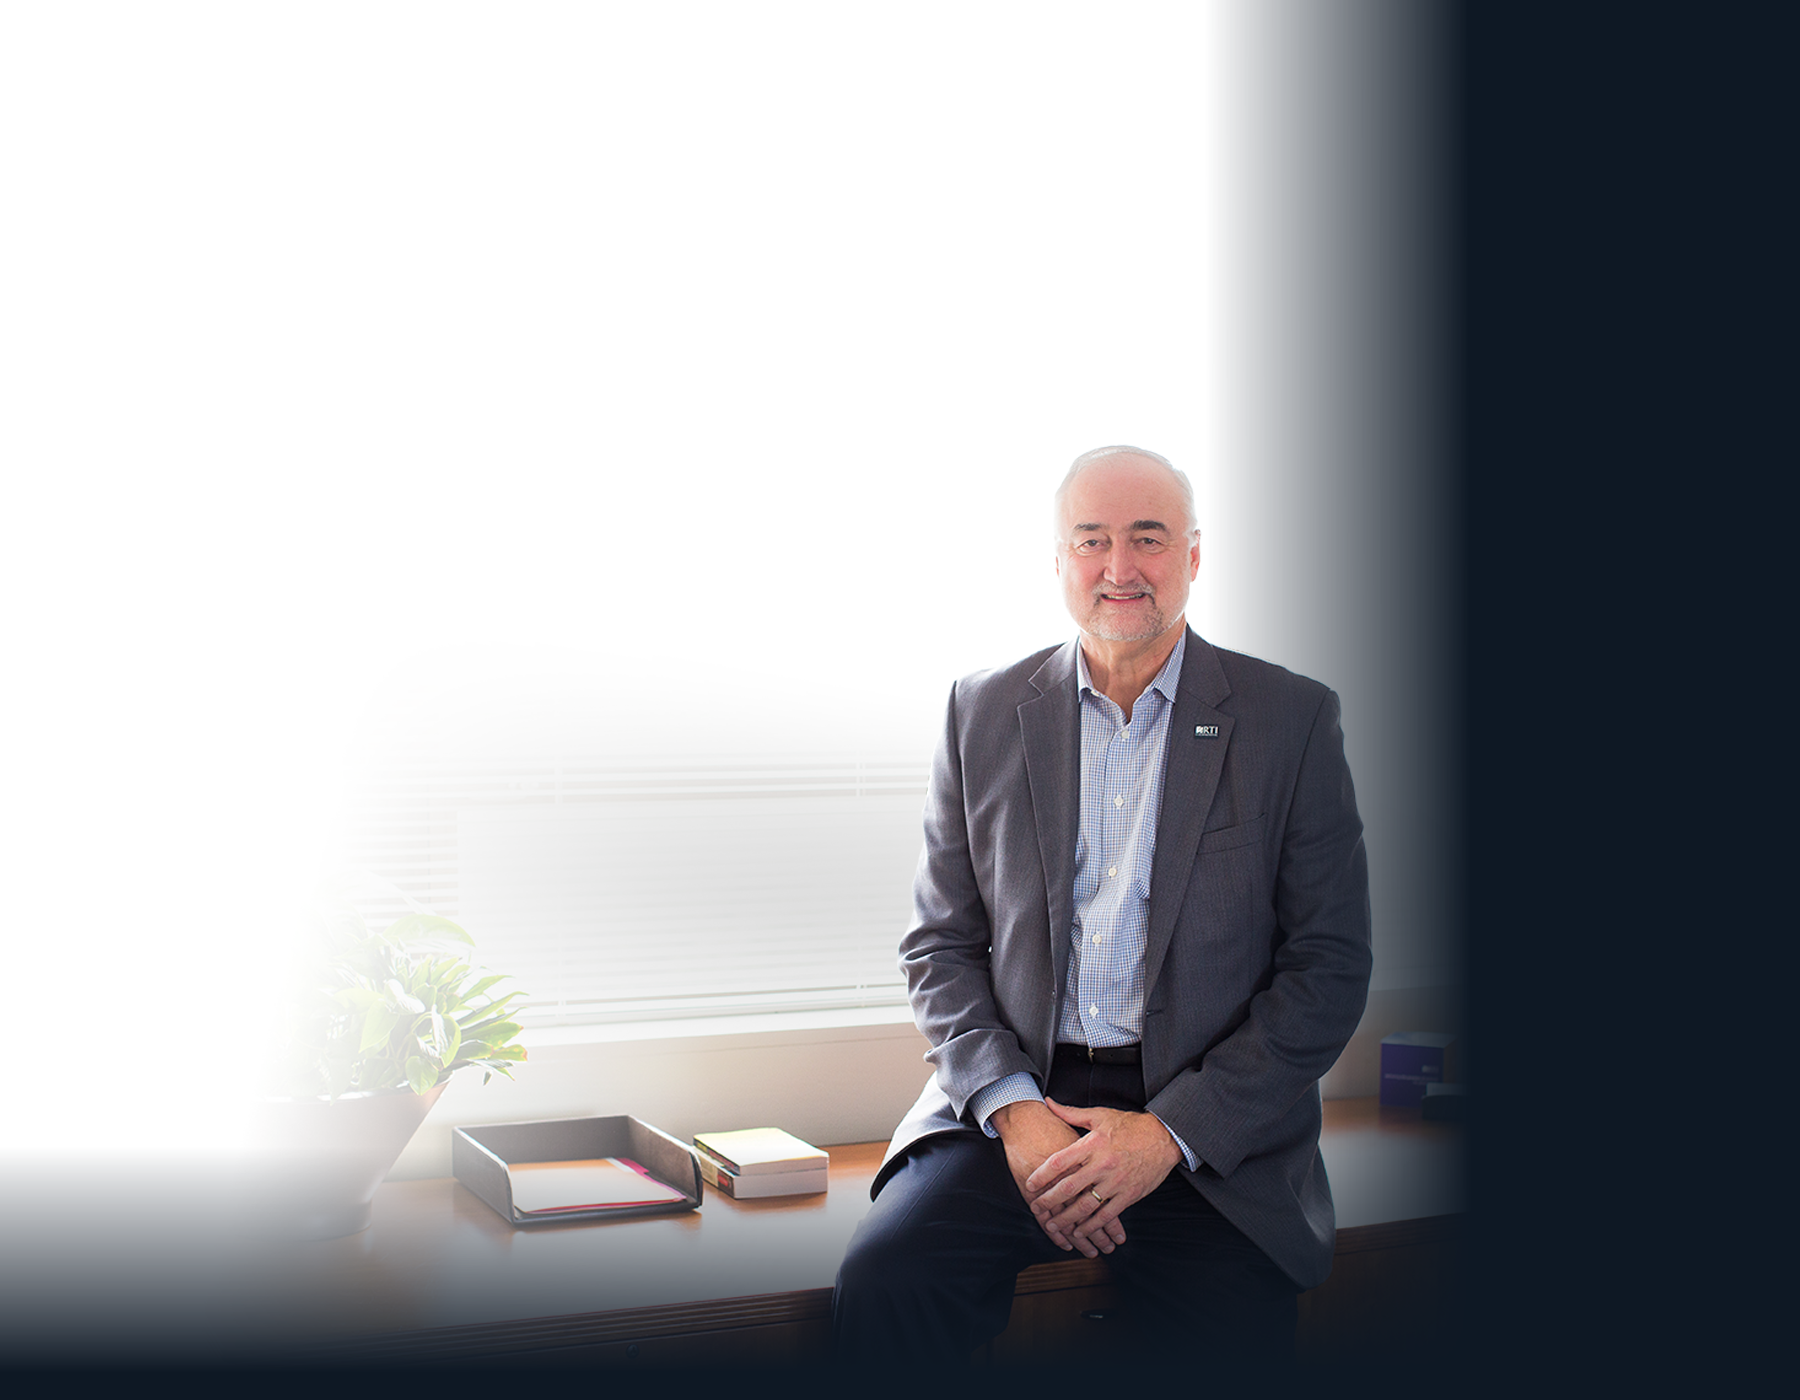
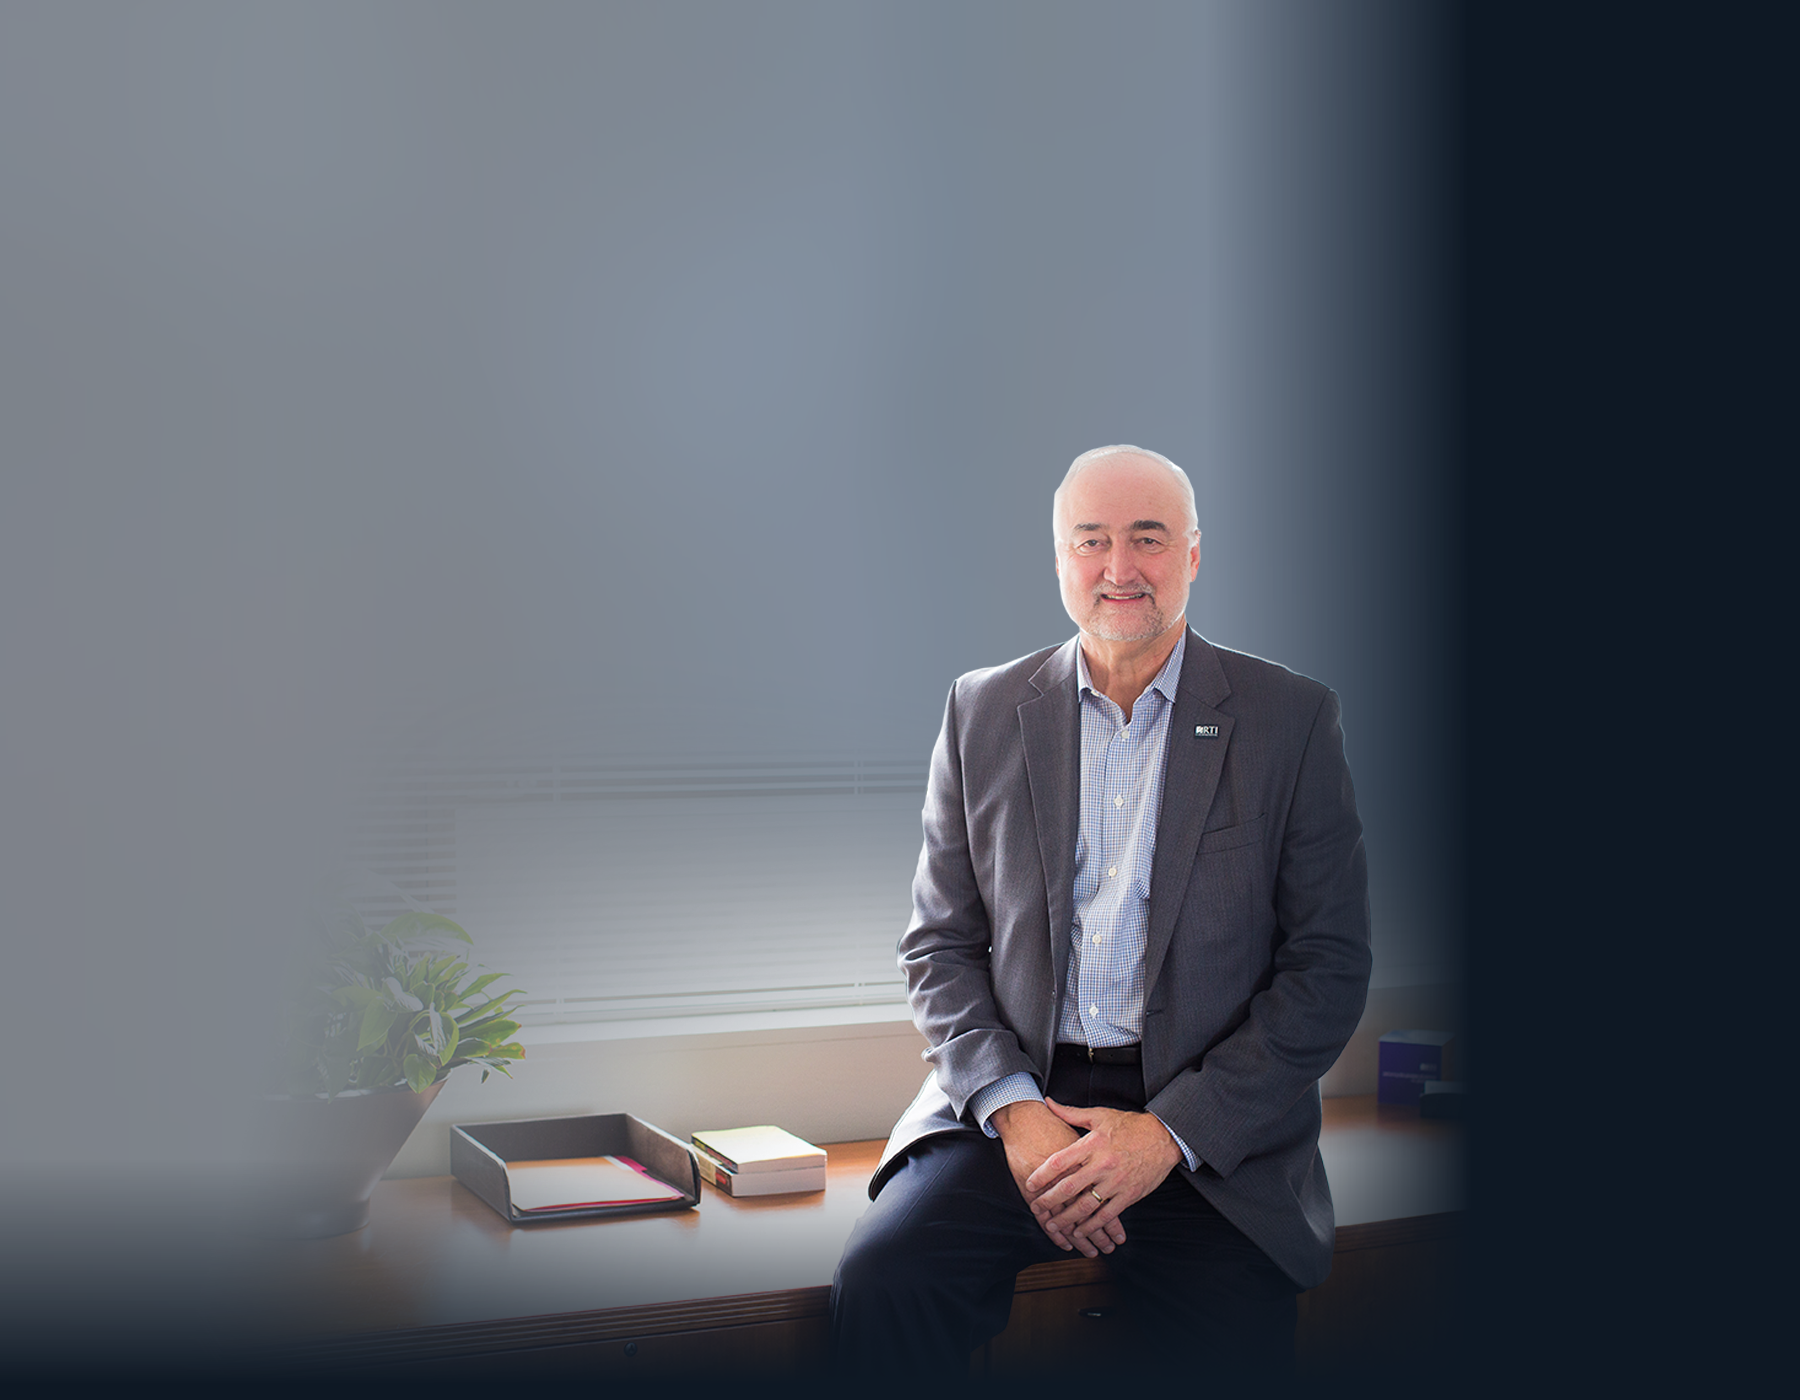
wayne and at a glance

diff --git a/css/tablet.css b/css/tablet.css
@@ -273,6 +273,17 @@
 		font-size: 40px;
 		margin: 0;
 	}
+	.elt-flex{
+		flex-flow: row wrap;
+		justify-content: space-evenly;
+	}
+	.elt-single{
+		align-self: stretch;
+		display: flex;
+		flex-flow: column;
+		justify-content: center;
+		align-content: center;
+	}
 	.landingPage {
 		margin: 0 auto;
 	}

diff --git a/about-rti/executive-leadership.php b/about-rti/executive-leadership.php
@@ -23,7 +23,168 @@ include $REL_DIR.$INCL_DIR."meta-living.php";
 					Lorem
 				</p>
             <!-- <p class="readmore"><a href="" target="_blank">READ MORE</a></p> -->
-            <div style="background-color: black; width: 100%; min-height: 100px;"></div>
+            <div class="elt-flex">
+                <div class="elt-single">
+                    <div style="background-color:black;">
+                        <img src="">    
+                    </div>
+                    <div>
+                        <p>
+                            name goes here
+                        </p>
+                    </div>
+                </div> <!-- end single -->
+                <div class="elt-single">
+                    <div style="background-color:black;">
+                        <img src="">    
+                    </div>
+                    <div>
+                        <p>
+                            name goes here
+                        </p>
+                    </div>
+                </div> <!-- end single -->
+                <div class="elt-single">
+                    <div style="background-color:black;">
+                        <img src="">    
+                    </div>
+                    <div>
+                        <p>
+                            name goes here
+                        </p>
+                    </div>
+                </div> <!-- end single -->
+                <div class="elt-single">
+                    <div style="background-color:black;">
+                        <img src="">    
+                    </div>
+                    <div>
+                        <p>
+                            name goes here
+                        </p>
+                    </div>
+                </div> <!-- end single -->
+                <div class="elt-single">
+                    <div style="background-color:black;">
+                        <img src="">    
+                    </div>
+                    <div>
+                        <p>
+                            name goes here
+                        </p>
+                    </div>
+                </div> <!-- end single -->
+                <div class="elt-single">
+                    <div style="background-color:black;">
+                        <img src="">    
+                    </div>
+                    <div>
+                        <p>
+                            name goes here
+                        </p>
+                    </div>
+                </div> <!-- end single -->
+                <div class="elt-single">
+                    <div style="background-color:black;">
+                        <img src="">    
+                    </div>
+                    <div>
+                        <p>
+                            name goes here
+                        </p>
+                    </div>
+                </div> <!-- end single -->
+                <div class="elt-single">
+                    <div style="background-color:black;">
+                        <img src="">    
+                    </div>
+                    <div>
+                        <p>
+                            name goes here
+                        </p>
+                    </div>
+                </div> <!-- end single -->
+                <div class="elt-single">
+                    <div style="background-color:black;">
+                        <img src="">    
+                    </div>
+                    <div>
+                        <p>
+                            name goes here
+                        </p>
+                    </div>
+                </div> <!-- end single -->
+                <div class="elt-single">
+                    <div style="background-color:black;">
+                        <img src="">    
+                    </div>
+                    <div>
+                        <p>
+                            name goes here
+                        </p>
+                    </div>
+                </div> <!-- end single -->
+                <div class="elt-single">
+                    <div style="background-color:black;">
+                        <img src="">    
+                    </div>
+                    <div>
+                        <p>
+                            name goes here
+                        </p>
+                    </div>
+                </div> <!-- end single -->
+                <div class="elt-single">
+                    <div style="background-color:black;">
+                        <img src="">    
+                    </div>
+                    <div>
+                        <p>
+                            name goes here
+                        </p>
+                    </div>
+                </div> <!-- end single -->
+                <div class="elt-single">
+                    <div style="background-color:black;">
+                        <img src="">    
+                    </div>
+                    <div>
+                        <p>
+                            name goes here
+                        </p>
+                    </div>
+                </div> <!-- end single -->
+                <div class="elt-single">
+                    <div style="background-color:black;">
+                        <img src="">    
+                    </div>
+                    <div>
+                        <p>
+                            name goes here
+                        </p>
+                    </div>
+                </div> <!-- end single -->
+                <div class="elt-single">
+                    <div style="background-color:black;">
+                        <img src="">    
+                    </div>
+                    <div>
+                        <p>
+                            name goes here
+                        </p>
+                    </div>
+                </div> <!-- end single -->
+                <div class="elt-single">
+                    <div style="background-color:black;">
+                        <img src="">    
+                    </div>
+                    <div>
+                        <p>
+                            name goes here
+                        </p>
+                    </div>
+                </div> <!-- end single -->
+            </div>
         </div>
         <div>
             <!-- <p class="regular">Learn more about how we are helping regions thrive and prosper:</p> -->

diff --git a/about-rti/at-a-glance.php b/about-rti/at-a-glance.php
@@ -5,7 +5,7 @@ include $REL_DIR."config.php";
 include $REL_DIR.$INCL_DIR."header.php";
 include $REL_DIR.$INCL_DIR."meta-living.php";
 ?>
-<!--<img src="img/living-our-mission-back.png" class="sectionBack">-->
+<img src="img/at-a-glance-back.png" class="sectionBack">
 	<div class="innerContainer">
 <div class="column left flex">
     <div class="living-our-mission-page">
